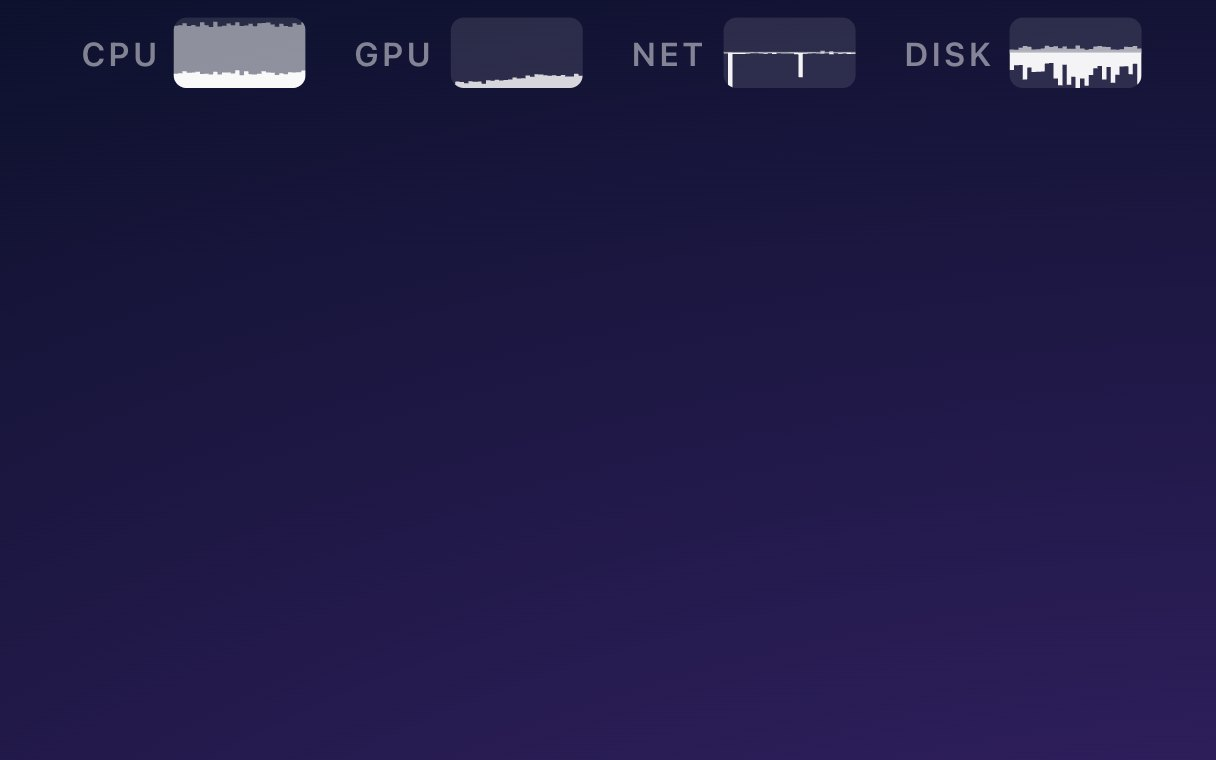
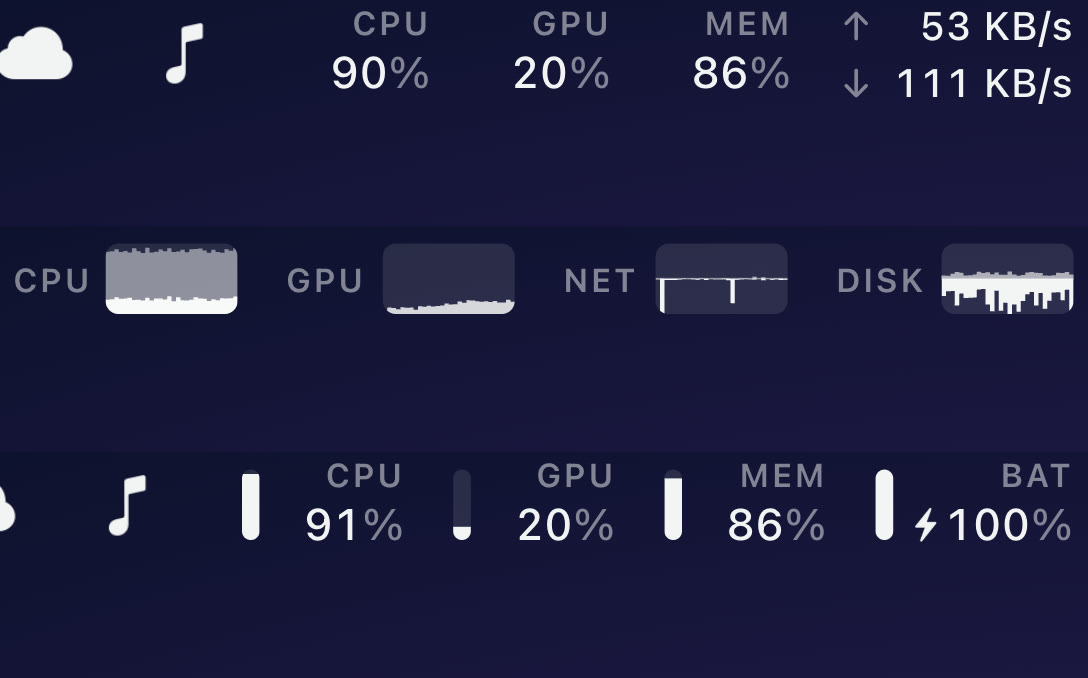
feat(site): show Stats' three styles stacked in one still (#123)
The 'Yours to arrange' still was a 45-pixel strip of menu bar in a frame of wallpaper. Stills can now stack several moments, each cropped to the same strip, so the bar shows as values, graphs and gauges in one 16:10 picture.

diff --git a/site/scripts/film.js b/site/scripts/film.js
@@ -187,32 +187,49 @@ switch (command) {
 					for (const dark of [false, true]) {
 						const { page, clip, still } = await open(browser, base, tool, dark, true);
 						for (const [index, feature] of features.entries()) {
-							const at =
-								feature.at === 'poster'
-									? film.poster
-									: (film.marks[feature.at] ?? feature.at);
-							if (!Number.isFinite(at))
-								usage(
-									`${tool} feature ${index + 1}: '${feature.at}' is not ms, a mark, or poster`
-								);
+							const moment = (m) => {
+								const t = m === 'poster' ? film.poster : (film.marks[m] ?? m);
+								if (!Number.isFinite(t))
+									usage(
+										`${tool} feature ${index + 1}: '${m}' is not ms, a mark, or poster`
+									);
+								return t;
+							};
 							const crop = feature.crop ?? {
 								x: 0,
 								y: 0,
 								width: viewport.width,
 								height: viewport.height
 							};
+							const region = {
+								x: clip.x + crop.x,
+								y: clip.y + crop.y,
+								width: crop.width,
+								height: crop.height
+							};
 							const path = join(out, `${index + 1}${dark ? '-dark' : ''}.jpg`);
-							await still(at, {
-								path,
-								type: 'jpeg',
-								quality: 86,
-								clip: {
-									x: clip.x + crop.x,
-									y: clip.y + crop.y,
-									width: crop.width,
-									height: crop.height
+							const moments = [feature.at, ...(feature.stack ?? [])].map(moment);
+							if (moments.length === 1) {
+								await still(moments[0], { path, type: 'jpeg', quality: 86, clip: region });
+							} else {
+								// Each moment's strip, then ffmpeg stacks them into one picture.
+								const strips = await mkdtemp(join(tmpdir(), `stills-${tool}-`));
+								try {
+									const files = [];
+									for (const [i, t] of moments.entries()) {
+										const file = join(strips, `${i}.png`);
+										await still(t, { path: file, clip: region });
+										files.push(file);
+									}
+									// prettier-ignore
+									await run('ffmpeg', [
+										'-y', '-loglevel', 'error', ...files.flatMap((f) => ['-i', f]),
+										'-filter_complex', `vstack=inputs=${files.length}`, '-q:v', '3', path
+									]);
+								} finally {
+									await rm(strips, { recursive: true, force: true });
 								}
-							});
+							}
 							console.log(path);
 						}
 						await page.close();

diff --git a/site/src/lib/pages.test.ts b/site/src/lib/pages.test.ts
@@ -19,11 +19,12 @@ describe.each(Object.entries(pages))('%s page', (slug, page) => {
 		});
 	});
 	it('crops stills to the film frame', () => {
-		for (const { crop, title } of page!.features)
+		for (const { crop, title, stack } of page!.features)
 			if (crop) {
+				const strips = 1 + (stack?.length ?? 0);
 				expect(crop.x + crop.width, title).toBeLessThanOrEqual(1280);
 				expect(crop.y + crop.height, title).toBeLessThanOrEqual(800);
-				expect(crop.width / crop.height, title).toBeCloseTo(1.6, 1);
+				expect(crop.width / (crop.height * strips), title).toBeCloseTo(1.6, 1);
 			}
 	});
 });

diff --git a/site/src/lib/pages.ts b/site/src/lib/pages.ts
@@ -13,6 +13,12 @@ export type Feature = {
 	at: number | string;
 	/** The part of the 1280 × 800 frame to show; the whole frame when left out. */
 	crop?: { x: number; y: number; width: number; height: number };
+	/**
+	 * Further moments to show under the first, each cropped to the same strip and stacked top to
+	 * bottom, for something too thin for a 16:10 frame of its own, like the menu bar in three styles.
+	 * With it, `crop` is one strip, and the strips together make the 16:10.
+	 */
+	stack?: (number | string)[];
 };
 
 export type Page = { features: Feature[] };

diff --git a/site/src/lib/stats/page.ts b/site/src/lib/stats/page.ts
@@ -18,8 +18,10 @@ export const page: Page = {
 		{
 			title: 'Yours to arrange.',
 			text: 'Show each metric as a value, a graph, or a gauge, whichever suits it, or hide it. Drag to reorder, and pick a density and update rate.',
-			at: 'graphs',
-			crop: { x: 518, y: 0, width: 608, height: 380 }
+			// The bar three ways, stacked: values, graphs, gauges.
+			at: 'values',
+			stack: ['graphs', 'gauges'],
+			crop: { x: 552, y: 0, width: 544, height: 113 }
 		}
 	]
 };

diff --git a/ROADMAP.md b/ROADMAP.md
@@ -150,7 +150,7 @@ Type a calculation with real-world units, a conversion, or a factual question in
 
 ## Unscheduled
 
-`########··` 73% · 24 of 33 done
+`########··` 76% · 25 of 33 done
 
 ### backlog
 
@@ -162,10 +162,6 @@ Type a calculation with real-world units, a conversion, or a factual question in
 - [ ] [`0074`](https://github.com/oddurs/common-tools/blob/main/cairn/items/0074-correct-the-status-item-render-command-in-apps-keys-claude-md.md) Correct the status item render command in apps/keys/CLAUDE.md <sup>bug · p3</sup>
 - [ ] [`0075`](https://github.com/oddurs/common-tools/blob/main/cairn/items/0075-correct-the-snapshot-binary-path-in-apps-stats-claude-md-and-apps-battery-claude-md.md) Correct the snapshot binary path in apps/stats/CLAUDE.md and apps/battery/CLAUDE.md <sup>bug · p3</sup>
 - [ ] [`0076`](https://github.com/oddurs/common-tools/blob/main/cairn/items/0076-let-the-pr-assets-orphan-branch-be-pushed-past-the-pre-push-hook.md) Let the pr-assets orphan branch be pushed past the pre-push hook <sup>bug · p3</sup>
-
-### in progress
-
-- [ ] [`0078`](https://github.com/oddurs/common-tools/blob/main/cairn/items/0078-give-every-app-a-lean-apple-style-page-with-feature-stills.md) Give every app a lean, Apple-style page with feature stills <sup>feature · p1</sup>
 
 ### done
 
@@ -185,6 +181,7 @@ Type a calculation with real-world units, a conversion, or a factual question in
 - [x] [`0067`](https://github.com/oddurs/common-tools/blob/main/cairn/items/0067-every-app-on-the-home-page-in-apple-s-product-page-style.md) Every app on the home page, in Apple's product-page style <sup>feature · p2</sup>
 - [x] [`0068`](https://github.com/oddurs/common-tools/blob/main/cairn/items/0068-keep-the-network-card-s-title-whole-when-its-rates-are-wide.md) Keep the Network card's title whole when its rates are wide <sup>bug · p2</sup>
 - [x] [`0077`](https://github.com/oddurs/common-tools/blob/main/cairn/items/0077-polish-the-site-s-spacing-wrapping-and-type-scale.md) Polish the site's spacing, wrapping and type scale <sup>feature · p2</sup>
+- [x] [`0078`](https://github.com/oddurs/common-tools/blob/main/cairn/items/0078-give-every-app-a-lean-apple-style-page-with-feature-stills.md) Give every app a lean, Apple-style page with feature stills <sup>feature · p1</sup>
 - [x] [`0079`](https://github.com/oddurs/common-tools/blob/main/cairn/items/0079-common-stats-product-page-features.md) Common Stats product page features <sup>feature · p2</sup>
 - [x] [`0080`](https://github.com/oddurs/common-tools/blob/main/cairn/items/0080-common-keys-product-page-features.md) Common Keys' product page features <sup>feature · p2</sup>
 - [x] [`0081`](https://github.com/oddurs/common-tools/blob/main/cairn/items/0081-common-shot-product-page-features.md) Common Shot product page features <sup>feature · p2</sup>

diff --git a/cairn/items/0078-give-every-app-a-lean-apple-style-page-with-feature-stills.md b/cairn/items/0078-give-every-app-a-lean-apple-style-page-with-feature-stills.md
@@ -3,9 +3,10 @@ id: 78
 uid: edea007c-c2bb-4963-a71b-becdc126d3b5
 title: Give every app a lean, Apple-style page with feature stills
 type: feature
-status: doing
+status: done
 created: 2026-10-20
 updated: 2026-10-20
+closed_at: 2026-10-20
 priority: p1
 area: site
 ---
